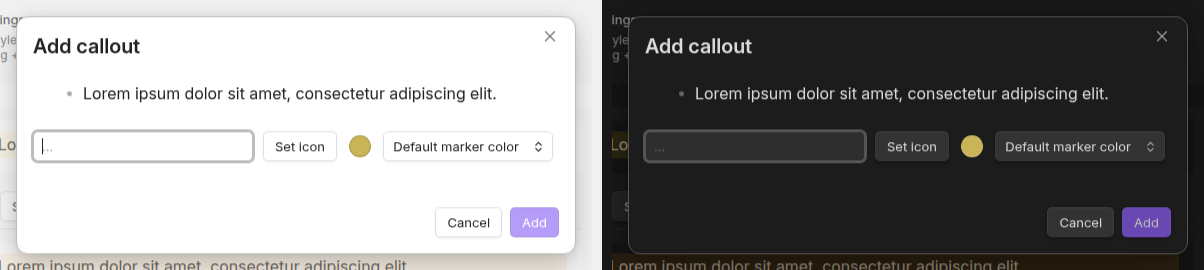
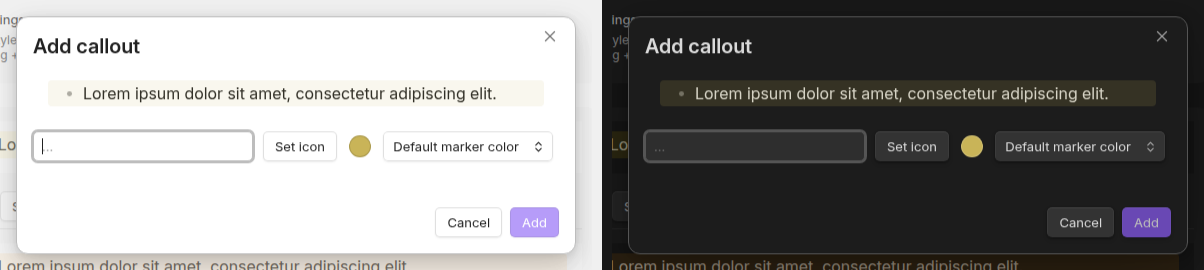
Show the chosen color behind the Add callout preview's text (#34)
* Show the chosen color behind the Add callout preview's text

The preview's tinted band sits at z-index -1 so that, in the editor, it
slides under the line's text. The settings tab lifted it back above the
row's background with a rule scoped to .lc-setting, which the Add callout
dialog never carries: there the band stayed hidden behind the dialog and
only the marker took a newly picked color, unlike the previews in the tab.

Scope that rule to .lc-callout-container instead, which wraps the preview
in both places, and cover it with a spec that compares how the dialog and
the tab paint the band.

* Regenerate the Add callout dialog screenshots

The dialog's preview now shows the tinted band behind its example text,
so the three README captures of it are updated to match.

Changed region(s): [[0.5224, 0.2963, 0.9834, 0.4148]]

diff --git a/test/helpers.ts b/test/helpers.ts
@@ -1148,13 +1148,21 @@ export interface MarkerColorControls {
   picker: string | null;
 }
 
+/** How the highlight band behind a callout preview is painted. */
+export interface PreviewBackgroundPaint {
+  /** The band's computed z-index. */
+  zIndex: string;
+  /** The computed background color of the band's tinted ::after layer. */
+  tint: string;
+}
+
 /**
- * Drive the marker color controls inside `root`: the callout row at `index`
- * in the settings tab, or the add-callout dialog when `index` is null.
+ * Drive the controls inside one callout form: the callout row at `index` in
+ * the settings tab, or the add-callout dialog when `index` is null.
  */
-function inMarkerColorControls<T>(
+function inCalloutForm<T>(
   index: number | null,
-  op: 'read' | 'mode' | 'pick',
+  op: 'read' | 'mode' | 'pick' | 'color' | 'paint',
   arg = ''
 ): Promise<T> {
   return browser.executeObsidian(
@@ -1189,8 +1197,25 @@ function inMarkerColorControls<T>(
       const picker = root.querySelector<HTMLInputElement>(
         '.lc-marker-color input'
       );
+      const colorInput =
+        root.querySelector<HTMLInputElement>('.lc-color input');
 
       switch (what) {
+        case 'color':
+          if (!colorInput) throw new Error('No color picker');
+          colorInput.value = value;
+          colorInput.dispatchEvent(new Event('change'));
+          return null;
+        case 'paint': {
+          const bg = root.querySelector<HTMLElement>(
+            '.lc-callout-container .lc-list-bg'
+          );
+          if (!bg) throw new Error('No preview background');
+          return {
+            zIndex: getComputedStyle(bg).zIndex,
+            tint: getComputedStyle(bg, '::after').backgroundColor,
+          };
+        }
         case 'read':
           return { mode: select?.value ?? '', picker: picker?.value ?? null };
         case 'mode':
@@ -1215,7 +1240,7 @@ function inMarkerColorControls<T>(
 export function markerColorControls(
   index: number
 ): Promise<MarkerColorControls> {
-  return inMarkerColorControls(index, 'read');
+  return inCalloutForm(index, 'read');
 }
 
 /** Pick 'default' or 'custom' in the row's marker color dropdown. */
@@ -1223,7 +1248,7 @@ export async function setMarkerColorMode(
   index: number,
   mode: 'default' | 'custom'
 ): Promise<void> {
-  await inMarkerColorControls(index, 'mode', mode);
+  await inCalloutForm(index, 'mode', mode);
 }
 
 /** Choose `hex` (e.g. '#010203') in the row's marker color picker. */
@@ -1231,24 +1256,39 @@ export async function pickMarkerColor(
   index: number,
   hex: string
 ): Promise<void> {
-  await inMarkerColorControls(index, 'pick', hex);
+  await inCalloutForm(index, 'pick', hex);
 }
 
 /** The marker color controls of the open add-callout dialog. */
 export function modalMarkerColorControls(): Promise<MarkerColorControls> {
-  return inMarkerColorControls(null, 'read');
+  return inCalloutForm(null, 'read');
 }
 
 /** Pick 'default' or 'custom' in the add-callout dialog's dropdown. */
 export async function setModalMarkerColorMode(
   mode: 'default' | 'custom'
 ): Promise<void> {
-  await inMarkerColorControls(null, 'mode', mode);
+  await inCalloutForm(null, 'mode', mode);
 }
 
 /** Choose `hex` in the add-callout dialog's marker color picker. */
 export async function pickModalMarkerColor(hex: string): Promise<void> {
-  await inMarkerColorControls(null, 'pick', hex);
+  await inCalloutForm(null, 'pick', hex);
+}
+
+/** Choose `hex` in the add-callout dialog's callout color picker. */
+export async function pickModalColor(hex: string): Promise<void> {
+  await inCalloutForm(null, 'color', hex);
+}
+
+/**
+ * How the preview background of the settings row at `index`, or of the
+ * add-callout dialog when `index` is null, is painted.
+ */
+export function previewBackgroundPaint(
+  index: number | null
+): Promise<PreviewBackgroundPaint> {
+  return inCalloutForm(index, 'paint');
 }
 
 /**

diff --git a/test/specs/settings.e2e.ts b/test/specs/settings.e2e.ts
@@ -34,6 +34,8 @@ import {
   openIconMenuInModal,
   openIconMenuInTab,
   openPluginSettings,
+  pickModalColor,
+  previewBackgroundPaint,
   reloadPlugin,
   reorderCallout,
   runReset,
@@ -109,6 +111,21 @@ describe('Adding a callout', function () {
   // off from its buttons.
   it('draws no separator above its buttons', async function () {
     expect(await modalButtonRowBorder('Add')).toBe('none');
+  });
+
+  // The preview's tinted band sits at z-index -1 so that, in the editor, it
+  // slides under the line's text. The settings tab lifts it back up so it
+  // shows above the row's own background; in the dialog nothing did, so the
+  // band was painted behind the dialog and only the marker took the color.
+  it('shows the chosen color behind the example text, as the tab does', async function () {
+    await pickModalColor('#010203');
+
+    const modal = await previewBackgroundPaint(null);
+    const tab = await previewBackgroundPaint(0);
+
+    expect(modal.tint.startsWith('rgba(1, 2, 3, ')).toBe(true);
+    expect(modal.zIndex).toBe(tab.zIndex);
+    expect(Number(modal.zIndex)).toBeGreaterThanOrEqual(0);
   });
 
   describe('the icon picker inside the modal', function () {

diff --git a/styles.css b/styles.css
@@ -283,11 +283,6 @@ settings:
   height: auto !important;
 }
 
-.lc-setting .lc-list-bg {
-  background-color: transparent;
-  z-index: 0;
-}
-
 .lc-setting input {
   width: 4em;
 }
@@ -303,6 +298,17 @@ settings:
   background-color: var(--background-primary);
   padding: 10px 15px 15px;
   margin-bottom: 10px;
+}
+
+/* In the editor the tinted band sits at z-index -1 so it slides under the
+   line's text. Neither preview container is a stacking context, so left
+   there the band paints behind the container's own background and is never
+   seen. Scoped to the container, not the settings row (.lc-setting), because
+   the Add callout dialog builds the same preview outside any row -- scoped
+   to the row, its band stayed hidden and only the marker took the color. */
+.lc-callout-container .lc-list-bg {
+  background-color: transparent;
+  z-index: 0;
 }
 
 /* The preview is a single mocked-up list line, but it carries Obsidian's
